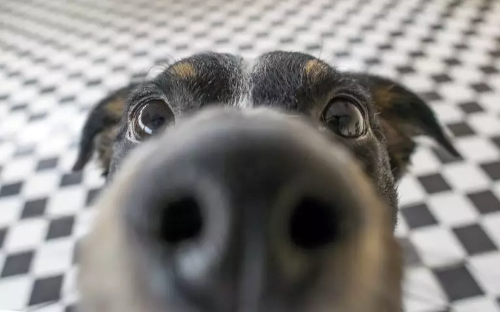
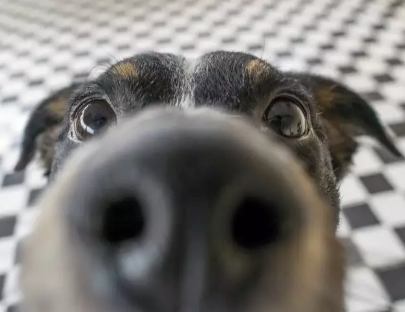
mundanças nas fotos e inclusão das divs de estilos e memes prontos

diff --git a/index.html b/index.html
@@ -22,11 +22,26 @@
             <figure id="meme-image-container">
                 <img src="./img/cachorro-olho-arregalado.png" alt="" id="meme-image">
 
-                <span id="meme-text">Nada selecionado! </span>
-
+                <p id="meme-text">Nada selecionado! </p>
 
             </figure>
         </div>
+
+        <div class="estilos-cusomizados">
+            <h3>Estilos prontos: </h3>
+            <button type='button' id="estilo1">Estilo 1</button>
+            <button type='button' id="estilo2">Estilo 2</button>
+            <button type='button' id="estilo3">Estilo 3</button>
+        </div>
+
+        <div class="memes-prontos">
+            <h3>Memes prontos: </h3>
+            <img src="./img/cachorro-fingido.png" alt="" style="max-height: 50px;">
+            <img src="./img/cachorro-olho-arregalado.png" alt="" style="max-height: 50px;">
+            <img src="./img/esquilo-exorcista.png" alt="" style="max-height: 50px;">
+
+        </div>
+
     </main>
     <footer>
 

diff --git a/script.js b/script.js
@@ -5,19 +5,22 @@
  const tagText = document.getElementById('text-input')
  const tagFigure = document.getElementById('meme-image-container');
  const tagImg = document.getElementById('meme-image');
- const tagSpan = document.getElementById('meme-text');
+ const tagTextMeme = document.getElementById('meme-text');
 
+ tagText.addEventListener('change', function(){
+  tagTextMeme.innerText = tagText.value;
+ });
 
  chooseImage.addEventListener('change', function () {
-  tagSpan.innerText = '';
+  tagTextMeme.innerText = '';
    for (let i = 0; i < this.files.length; i++) { // pesquisar de onde saiu esse files
 
      tagImg.src = URL.createObjectURL(this.files[i]);
 
      tagFigure.appendChild(tagImg);
 
-     tagSpan.innerText = tagText.value;
+     tagTextMeme.innerText = tagText.value;
 
-     tagFigure.appendChild(tagSpan);
+     tagFigure.appendChild(tagTextMeme);
    }
  });

diff --git a/style.css b/style.css
@@ -1,6 +1,5 @@
 main{
     width: 900px;
-    height: 500px;
     background-color: aquamarine;
     box-shadow: 10px 5px 5px rgba(2, 70, 53, 0.5);
     margin-left: auto;
@@ -28,8 +27,8 @@ main{
 
 #meme-text{
     float: inline-end;
-    color: rgb(0, 0, 0);
-    font-size: 30pt;
+    color: black;
+    font-size: 30px;
     margin: 0;
     box-shadow: 5px 5px 5px black;
 }
